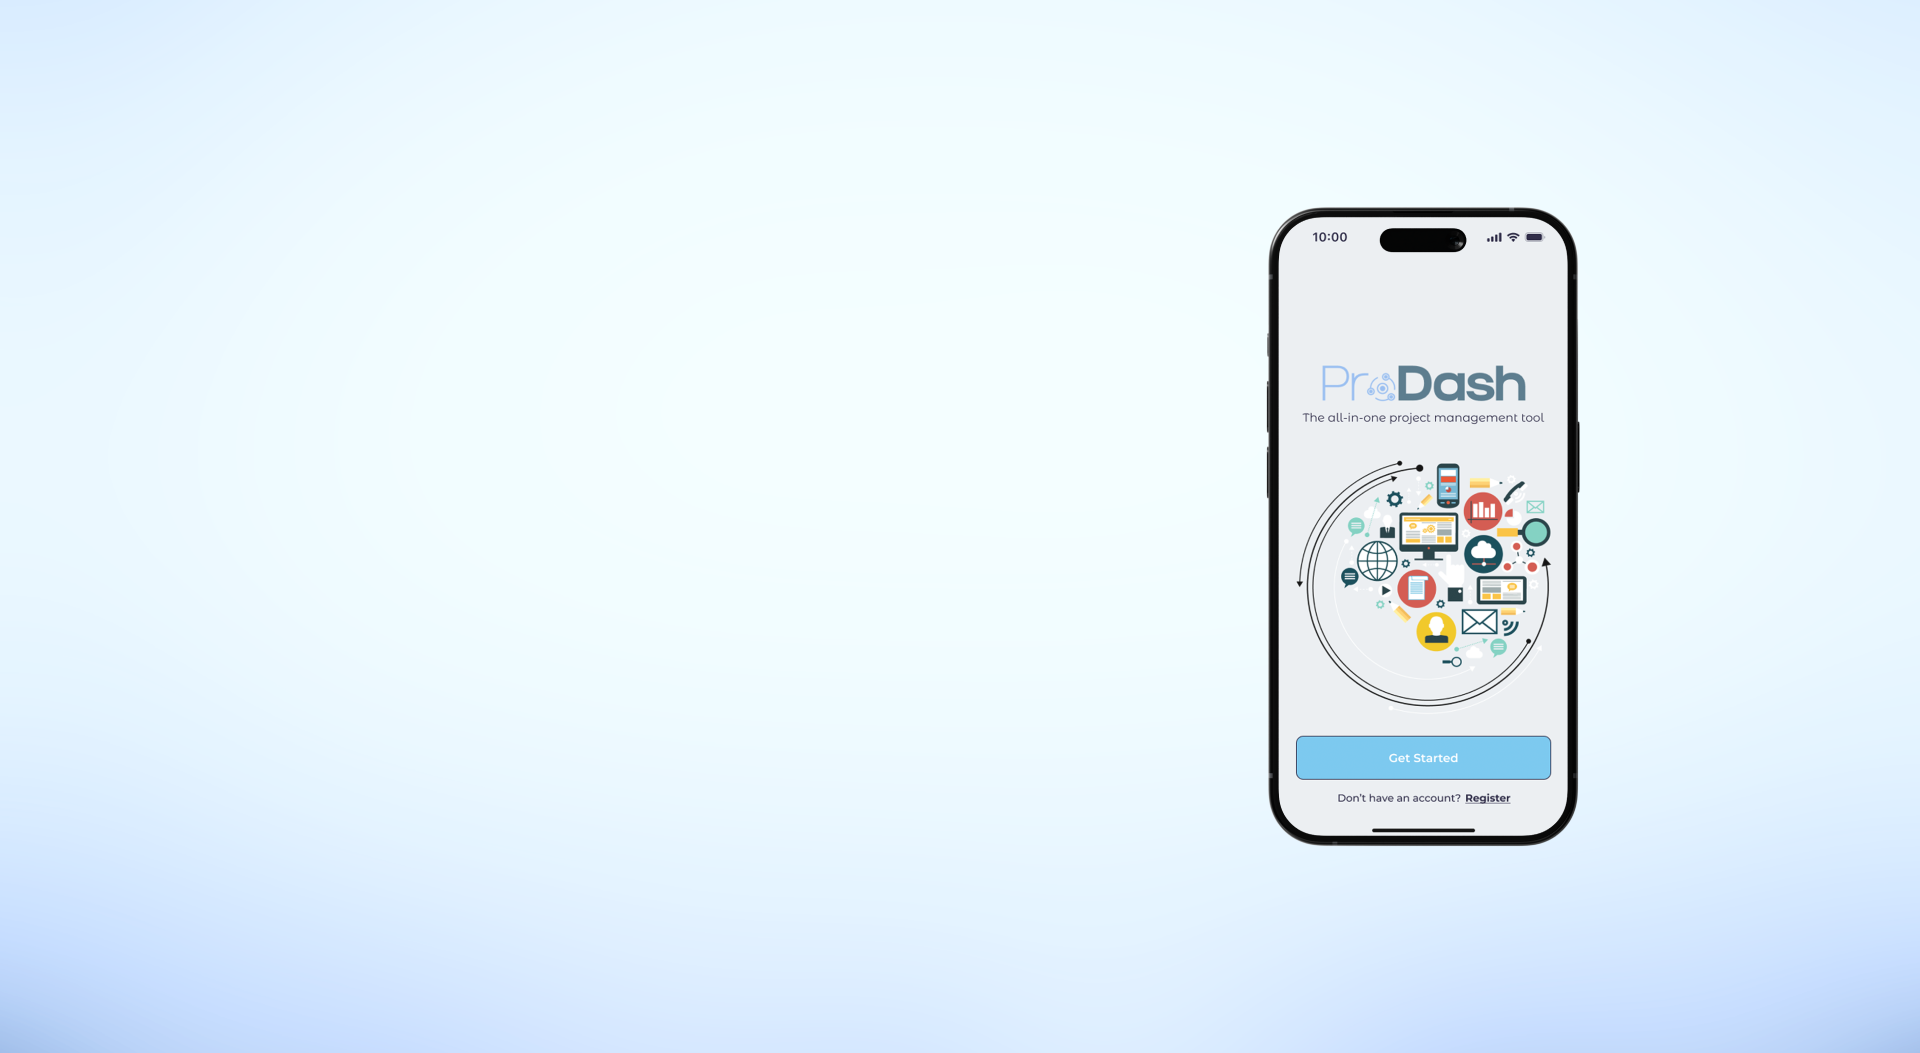
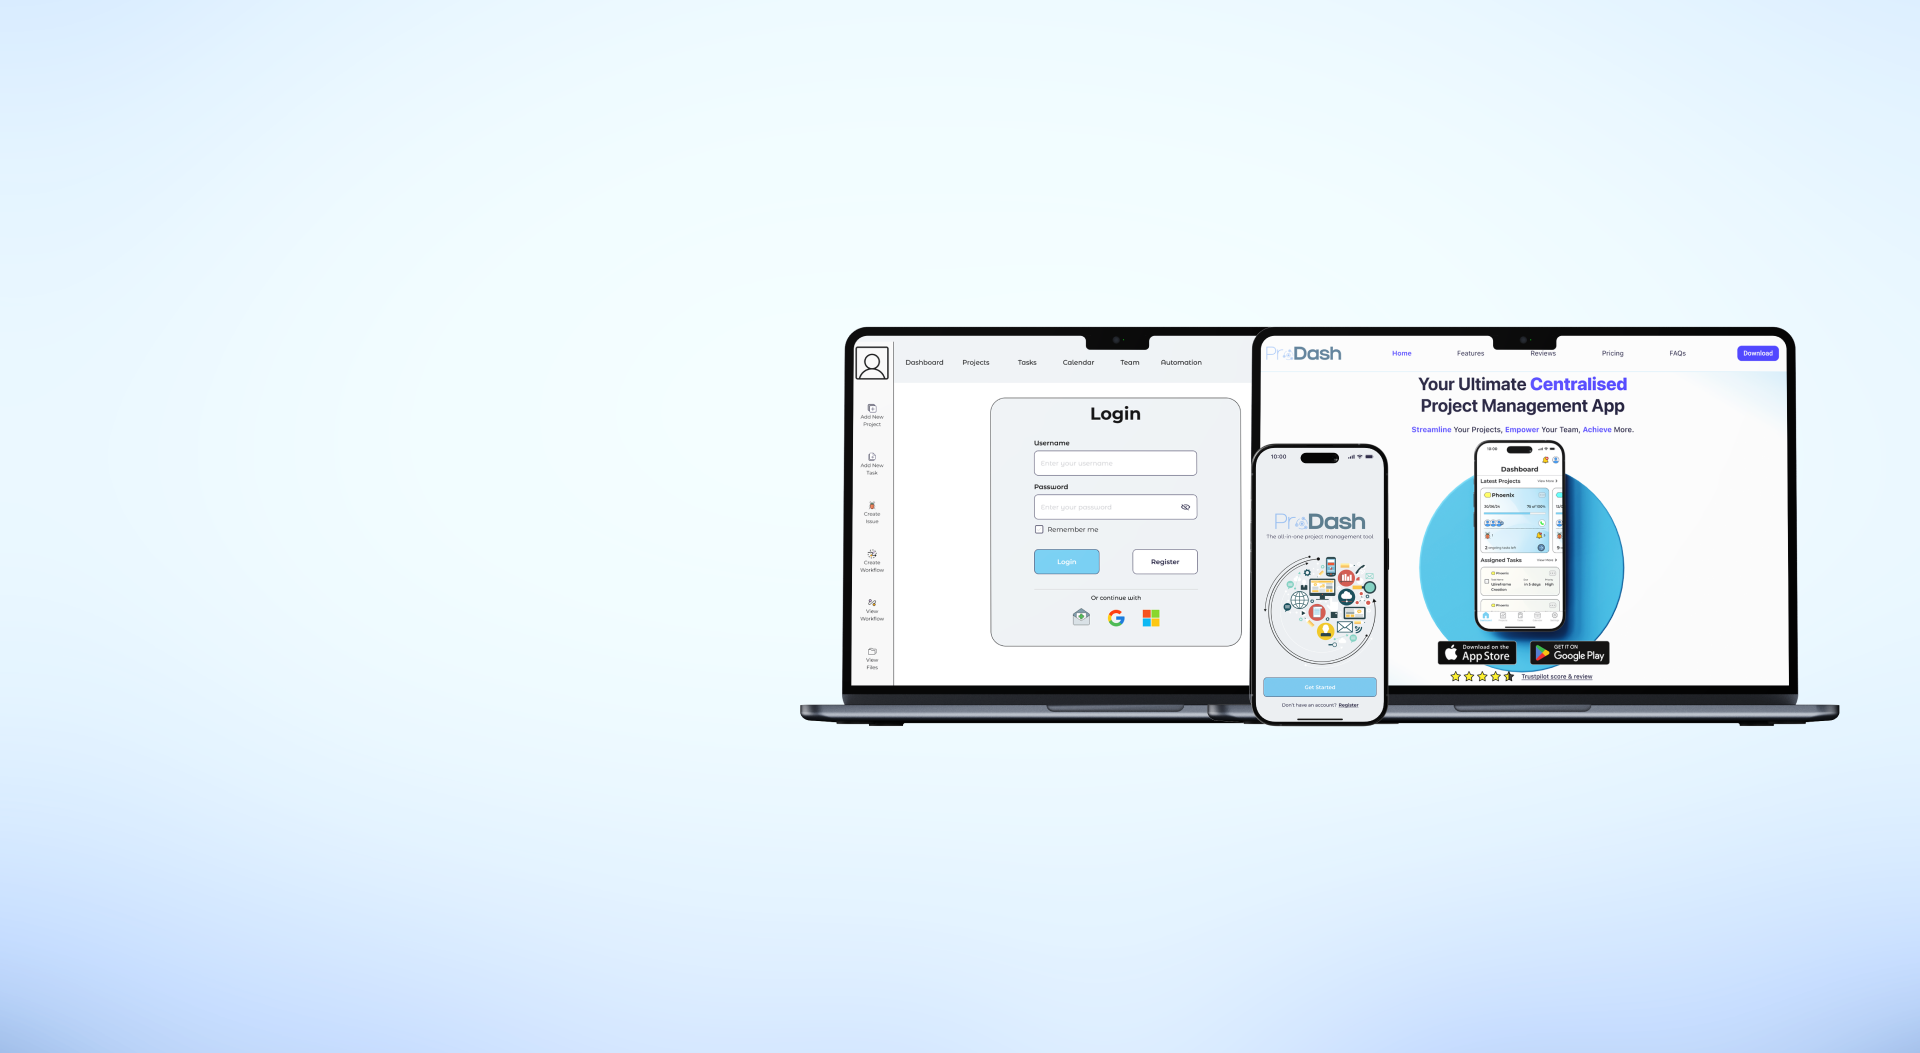
embed prototypes and update hero

Changed region(s): [[0.4062, 0.1823, 0.9688, 0.8205], [0.5625, 0.3647, 0.5938, 0.3951]]

diff --git a/ProDash-details.html b/ProDash-details.html
@@ -28,6 +28,14 @@
 
   <!-- Main CSS File -->
   <link href="assets/css/main.css" rel="stylesheet">
+
+  <script>
+    window.onload = function () {
+      var iframe = document.getElementById("myiframe");
+      iframe.width = iframe.contentWindow.document.body.scrollWidth;
+      iframe.height = iframe.contentWindow.document.body.scrollHeight;
+    }
+  </script>
 </head>
 
 <body class="portfolio-details-page">
@@ -72,7 +80,7 @@
         <div class="row justify-content-center">
           <div class="col-lg-9">
             <h2>ProDash</h2>
-            <p>A Centralised Project
+            <p>A Centralised Project<br>
               Management Application</p>
             <br><br>
             <a href="#portfolio-details"><span class="typed" data-typed-items="View details &#x25BC;"></span><span
@@ -196,8 +204,7 @@
                 productivity.
               </p>
               <br>
-              <a href="https://www.figma.com/proto/ppvgT5uX0ODtiCW4xmvxqk/Capstone-Project?node-id=590-21483&node-type=canvas&viewport=5739%2C-8128%2C0.75&t=slw37DDJENf9EjhV-0&scaling=scale-down&content-scaling=fixed&starting-point-node-id=590%3A31120&show-proto-sidebar=1"
-                class="btn-view align-self-start">View Prototype</a>
+              <a href="#prototype" class="btn-view align-self-start">View Prototype</a>
 
               <br><br>
               <div id="design-process" class="design-process">
@@ -833,7 +840,7 @@
 
               <div class="section-content">
 
-                <section id="portfolio" class="portfolio section p-1">
+                <section id="sketches" class="portfolio section p-1">
                   <h6><b>Sketches</b></h6>
 
                   <div class="isotope-layout" data-default-filter="*" data-layout="masonry" data-sort="original-order">
@@ -886,7 +893,7 @@
                   </div>
                 </section>
 
-                <section id="portfolio" class="portfolio section p-1 mt-4">
+                <section id="mid-fi-wireframes" class="portfolio section p-1 mt-4">
 
                   <h6><b>Wireframes</b></h6>
 
@@ -905,7 +912,7 @@
                           <div class="portfolio-info">
                             <!-- <h4>ProDash</h4> -->
                             <p>Login / Tasks / Calendar Screen Sketeches</p>
-                            <a href="assets/img/mid-fi-wireframes.png" title="Login / Tasks / Calendar Screen Sketeches"
+                            <a href="assets/img/mid-fi-wireframes.png" title="Login / Tasks / Calendar Screen Sketches"
                               data-gallery="portfolio-gallery-app" class="glightbox preview-link"><i
                                 class="bi bi-zoom-in"></i></a>
                           </div>
@@ -914,6 +921,16 @@
 
                     </div><!-- End Portfolio Container -->
                   </div>
+
+                  <section class="d-flex align-items-center p-0" style="height: 100vh;">
+                    <iframe style="border: 1px solid rgba(0, 0, 0, 0.1);" width="100%" height="100%"
+                      src="https://embed.figma.com/proto/ppvgT5uX0ODtiCW4xmvxqk/Capstone-Project?page-id=0%3A1&node-id=219-4129&node-type=canvas&viewport=-2159%2C9%2C0.03&scaling=scale-down&content-scaling=fixed&starting-point-node-id=219%3A4129&show-proto-sidebar=0&embed-host=share"
+                      allowfullscreen></iframe>
+                    <iframe style="border: 1px solid rgba(0, 0, 0, 0.1);" width="100%" height="100%"
+                      src="https://embed.figma.com/proto/ppvgT5uX0ODtiCW4xmvxqk/Capstone-Project?page-id=0%3A1&node-id=307-45734&node-type=canvas&viewport=-2159%2C9%2C0.03&scaling=scale-down&content-scaling=fixed&starting-point-node-id=307%3A45734&show-proto-sidebar=0&embed-host=share"
+                      allowfullscreen></iframe>
+                  </section>
+
                 </section>
 
                 <div class="section-content" data-aos="fade" data-aos-delay="100">
@@ -1047,7 +1064,7 @@
                   </div>
                 </div>
 
-                <section id="portfolio" class="portfolio section p-1">
+                <section id="design-matrix" class="portfolio section p-1">
 
                   <div class="isotope-layout" data-default-filter="*" data-layout="masonry" data-sort="original-order">
 
@@ -1077,7 +1094,7 @@
                 <div class="section-content" data-aos="fade" data-aos-delay="100">
                   <h6><b>Brand Development</b></h6>
 
-                  <section id="portfolio" class="portfolio section p-1">
+                  <section id="brand-development" class="portfolio section p-1">
 
                     <div class="isotope-layout" data-default-filter="*" data-layout="masonry"
                       data-sort="original-order">
@@ -1126,7 +1143,7 @@
                 <div class="section-content" data-aos="fade" data-aos-delay="100">
                   <h6><b>UI Library</b></h6>
 
-                  <section id="portfolio" class="portfolio section p-1">
+                  <section id="ui-library" class="portfolio section p-1">
                     <div class="w-100 text-center" style="border-bottom: 2px solid var(--accent-color);">
                       <span><b>Atoms & Molecules</b></span>
                     </div>
@@ -1193,7 +1210,7 @@
                 <div class="section-content" data-aos="fade" data-aos-delay="100">
                   <h6><b>Wireframes</b></h6>
 
-                  <section id="portfolio" class="portfolio section p-1">
+                  <section id="hi-fi-wireframes" class="portfolio section p-1">
 
                     <div class="isotope-layout" data-default-filter="*" data-layout="masonry"
                       data-sort="original-order">
@@ -1219,13 +1236,22 @@
 
                       </div><!-- End Portfolio Container -->
                     </div>
+
+                    <section class="d-flex align-items-center p-0" style="height: 100vh;">
+                      <iframe style="border: 1px solid rgba(0, 0, 0, 0.1);" width="100%" height="100%"
+                        src="https://embed.figma.com/proto/ppvgT5uX0ODtiCW4xmvxqk/Capstone-Project?page-id=590%3A21483&node-id=590-30909&node-type=frame&viewport=2541%2C-8263%2C0.62&scaling=scale-down&content-scaling=fixed&starting-point-node-id=590%3A30909&show-proto-sidebar=0&embed-host=share"
+                        allowfullscreen></iframe>
+                      <iframe style="border: 1px solid rgba(0, 0, 0, 0.1);" width="100%" height="100%"
+                        src="https://embed.figma.com/proto/ppvgT5uX0ODtiCW4xmvxqk/Capstone-Project?page-id=590%3A21483&node-id=590-31120&node-type=frame&viewport=2541%2C-8263%2C0.62&scaling=scale-down&content-scaling=fixed&starting-point-node-id=590%3A31120&show-proto-sidebar=0&embed-host=share"
+                        allowfullscreen></iframe>
+                    </section>
                   </section>
                 </div>
 
                 <div class="section-content" data-aos="fade" data-aos-delay="100">
                   <h6><b>Product Marketing Website</b></h6>
 
-                  <section id="portfolio" class="portfolio section p-1">
+                  <section id="marketing-site" class="portfolio section p-1">
 
                     <div class="isotope-layout" data-default-filter="*" data-layout="masonry"
                       data-sort="original-order">
@@ -1248,13 +1274,23 @@
 
                       </div><!-- End Portfolio Container -->
                     </div>
+
+                    <section class="d-flex align-items-center p-0" style="height: 100vh;">
+                      <iframe style="border: 1px solid rgba(0, 0, 0, 0.1);" width="100%" height="100%"
+                        src="https://embed.figma.com/proto/ppvgT5uX0ODtiCW4xmvxqk/Capstone-Project?page-id=804%3A28199&node-id=990-15335&node-type=frame&viewport=376%2C288%2C0.02&scaling=contain&content-scaling=fixed&starting-point-node-id=990%3A15335&show-proto-sidebar=0&embed-host=share"
+                        allowfullscreen></iframe>
+                      <iframe style="border: 1px solid rgba(0, 0, 0, 0.1);" width="100%" height="100%"
+                        src="https://embed.figma.com/proto/ppvgT5uX0ODtiCW4xmvxqk/Capstone-Project?page-id=1673%3A18197&node-id=1673-22200&node-type=canvas&viewport=-7957%2C-2326%2C0.2&scaling=scale-down&content-scaling=fixed&starting-point-node-id=1673%3A22200&show-proto-sidebar=0&embed-host=share"
+                        allowfullscreen></iframe>
+                    </section>
+
                   </section>
                 </div>
 
                 <div class="section-content" data-aos="fade" data-aos-delay="100">
                   <h6><b>Multi-Platform Product</b></h6>
 
-                  <section id="portfolio" class="portfolio section p-1">
+                  <section id="multi-platform-product" class="portfolio section p-1">
 
                     <div class="isotope-layout" data-default-filter="*" data-layout="masonry"
                       data-sort="original-order">
@@ -1323,6 +1359,21 @@
                 </div>
 
               </div>
+
+              <a href="#design-process">
+                <div id="prototype" class="prototype-section">
+                  <h2>Prototype</h2>
+                </div>
+              </a>
+
+
+              <section class="d-flex flex-column align-items-center p-2" style="height: 100vh;">
+                <iframe style="border: 0px solid rgba(0, 0, 0, 0.1);" width="100%" height="100%"
+                  src="https://embed.figma.com/proto/ppvgT5uX0ODtiCW4xmvxqk/Capstone-Project?page-id=590%3A21483&node-id=590-31120&node-type=frame&viewport=2541%2C-8263%2C0.62&scaling=scale-down&content-scaling=fixed&starting-point-node-id=590%3A31120&show-proto-sidebar=0&embed-host=share&"
+                  allowfullscreen></iframe>
+              </section>
+
+
 
             </div>
 

diff --git a/assets/css/main.css b/assets/css/main.css
@@ -19,7 +19,7 @@
 
 /* Global Colors - The following color variables are used throughout the website. Updating them here will change the color scheme of the entire website */
 :root {
-  --background-color: #ffffff;
+  --background-color: #f9f9f9;
   /* Background color for the entire website, including individual sections */
   --default-color: #272829;
   /* Default color used for the majority of the text content across the entire website */
@@ -1580,6 +1580,18 @@ section,
   margin: 0px !important;
 }
 
+.prototype-section {
+  padding: 30px 30px 30px 30px;
+  position: relative;
+  background-color: var(--accent-color);
+  color: var(--contrast-color) !important;
+}
+
+.prototype-section h2 {
+  color: var(--contrast-color);
+  margin: 0px !important;
+}
+
 .process h3 {
   margin: 0px !important;
   padding-top: 0px !important;
@@ -1732,7 +1744,7 @@ section,
 --------------------------------------------------------------*/
 .project-hero {
   margin-left: -160px;
-  width: 100vw;
+  /* width: 100vw; */
   min-height: 100vh;
   position: relative;
   padding: 80px 0;
